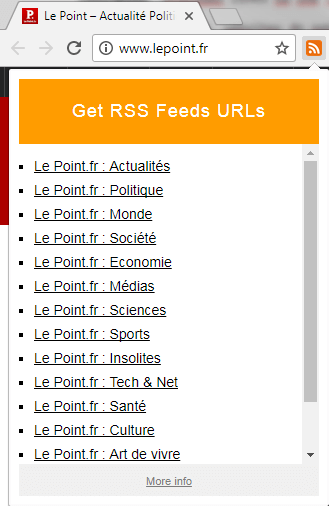
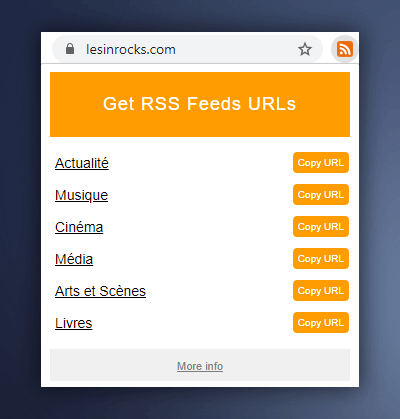
Add copy button #11 and automatic generation of the RSS feed URL for Reddit

diff --git a/js/popup.js b/js/popup.js
@@ -7,6 +7,9 @@ function getFeedsURLs(url, callback) {
     // Check if it's a Youtube URL (channel or user feed)
     var ytRss = getYoutubeRss(url);
 
+    // Check if it's a Reddit URL
+    var rdRss = getRedditRss(url);
+
     if (ytRss !== false)
     {
         var feeds_urls = [];
@@ -15,6 +18,20 @@ function getFeedsURLs(url, callback) {
             type: '',
             url: ytRss,
             title: ytRss,
+        };
+        
+        feeds_urls.push(feed);
+
+        callback(feeds_urls);
+    }
+    else if (rdRss !== false)
+    {
+        var feeds_urls = [];
+        
+        var feed = {
+            type: '',
+            url: rdRss,
+            title: rdRss,
         };
         
         feeds_urls.push(feed);
@@ -96,33 +113,61 @@ function getFeedsURLs(url, callback) {
 /*
  * Get RSS feed URL of Youtube channel or user
  */
-function getYoutubeRss(ytUrl)
+function getYoutubeRss(tabUrl)
 {
     // Check if Youtube URL
     var regex = RegExp(/^(http(s)?:\/\/)?((w){3}.)?youtu(be|.be)?(\.com)?\/.+/gm);
 
-    var isYTUrl = regex.test(ytUrl);
+    var isYTUrl = regex.test(tabUrl);
     
     if (isYTUrl)
     {
         // Remove after "?"
-        ytUrl = ytUrl.split('?')[0];
+        tabUrl = tabUrl.split('?')[0];
 
         var channel = '';
 
         // https://www.youtube.com/channel/UCENv8pH4LkzvuSV_qHIcslg
         // https://www.youtube.com/user/cestpassorcierftv/featured
-        if (ytUrl.split('channel/')[1])
+        if (tabUrl.split('channel/')[1])
         {
-            channel = "channel_id=" + (ytUrl.split('channel/')[1]).split('/')[0]; 
+            channel = "channel_id=" + (tabUrl.split('channel/')[1]).split('/')[0]; 
         }
-        else if (ytUrl.split('user/')[1])
+        else if (tabUrl.split('user/')[1])
         {
-            channel = "user=" + (ytUrl.split('user/')[1]).split('/')[0];
+            channel = "user=" + (tabUrl.split('user/')[1]).split('/')[0];
         }
 
         if (channel != '')
             return "https://www.youtube.com/feeds/videos.xml?" + channel;
+        else
+            return false;
+    }
+    else
+    {
+        return false;
+    }
+}
+
+
+/*
+ * Get RSS feed URL of a subreddit
+ */
+function getRedditRss(tabUrl)
+{
+    // Check if subreddit URL
+    var regex = RegExp(/^(http(s)?:\/\/)?((w){3}.)?reddit\.com\/r\/(.+)/gm);
+
+    var isRedditUrl = regex.test(tabUrl);
+    
+    if (isRedditUrl)
+    {
+        // Remove last "/" if presents
+        var feedUrl = tabUrl.replace(/\/$/, '');
+        feedUrl = feedUrl + '.rss';
+
+        if (feedUrl != tabUrl)
+            return feedUrl;
         else
             return false;
     }
@@ -141,6 +186,27 @@ function render(msg)
     document.getElementById('feeds').innerHTML = msg;
 }
 
+/*
+ * Copy to clipboard text with notification
+ */
+function copyToClipboard(text, notification) {
+    const input = document.createElement('textarea');
+    input.style.position = 'fixed';
+    input.style.opacity = 0;
+    input.value = text;
+    document.body.appendChild(input);
+    input.select();
+    document.execCommand('Copy');
+    document.body.removeChild(input);
+
+    chrome.notifications.create('get-rss-feed-url-copy', {
+        type: "basic",
+        title: notification.title ?? "Get RSS Feeds URLs",
+        message: notification.message,
+        iconUrl: "img/notif_"+notification.type+".png"
+    });
+};
+
 
 
 document.addEventListener('DOMContentLoaded', function() {
@@ -152,20 +218,41 @@ document.addEventListener('DOMContentLoaded', function() {
 
             if (feeds.length > 0)
             {
-                var html = "<ul>";
+                var html = '<table>';
                 for (i = 0; i < feeds.length; i++)
                 {
-                    html += "<li>";
-                    html +=   '<a href="'+feeds[i].url+'" title="'+feeds[i].type+'" target="_blank">'+feeds[i].title+'</a>';
-                    html += "</li>";
+                    html += '<tr>';
+                    html +=   '<td class="feed-title">';
+                    html +=     '<a class="link" href="'+feeds[i].url+'" title="Open feed URL" data-tabtitle="'+tab.title+'" target="_blank">'+feeds[i].title+'</a>';
+                    html +=   '</td>';
+                    html +=   '<td class="feed-copy">';
+                    html +=     '<a class="copyLink" title="Copy feed URL" href="#">Copy URL</a>';
+                    html +=   '</td>';
+                    html += '</tr>';
                 }
-                html += "</ul>";
+                html += '</table>';
 
                 render(html);
             }
             else
             {
                 render("No feed found");
+            }
+
+            
+            // Copy to clipboard feed URL
+            var copyButtons = document.getElementsByClassName('copyLink');
+
+            for (let i = 0; i < copyButtons.length; i++) {
+                copyButtons[i].addEventListener("click", function() {
+                    console.log(this.parentNode);
+
+                    var feed = this.parentNode.parentNode.querySelector('a.link');
+                    var url = feed.getAttribute('href');
+                    var tabTitle = feed.getAttribute('data-tabtitle');
+
+                    copyToClipboard(url, {type: "success", title: tabTitle, message: "Feed URL copied in clipboard!"});
+                });
             }
 
         });

diff --git a/css/popup.css b/css/popup.css
@@ -14,16 +14,43 @@ body.rss-feed-url {
     overflow-x: hidden;
     overflow-y: auto;
 }
-.rss-feed-url #feeds ul {
-    list-style-type: square;
-    margin: 0;
-    padding-left: 15px;
+.rss-feed-url #feeds table {
+    width: 100%;
+    border-collapse: collapse;
 }
-.rss-feed-url #feeds a {
+.rss-feed-url #feeds table tr:hover td {
+    background-color: rgba(255, 156, 0, 0.1);
+}
+.rss-feed-url #feeds table td.feed-title {
+    max-width: 100px;
+    overflow: hidden;
+    text-overflow: ellipsis;
+    white-space: nowrap;
+    padding: 8px 5px;
+}
+.rss-feed-url #feeds table td.feed-copy {
+    width: 60px;
+    text-align: right;
+}
+.rss-feed-url #feeds a.link {
     color: #000;
     text-decoration: underline;
     font-size: 14px;
-    line-height: 24px;
+}
+.rss-feed-url #feeds a.link:hover {
+    text-decoration: none;
+}
+.rss-feed-url #feeds a.copyLink {
+    background-color: #ff9c00;
+    color: #fff;
+    font-size: 10px;
+    padding: 5px;
+    text-decoration: none;
+    border-radius: 4px;
+    display: inline-block;
+}
+.rss-feed-url #feeds a.copyLink:hover {
+    background-color: #e48e04;
 }
 
 .rss-feed-url header {

diff --git a/README.md b/README.md
@@ -6,11 +6,13 @@
 # What is Get RSS Feed URL Extension?
 
 
-**get-rss-feed-url-extension is a Google Chrome extension that provides links to the various RSS/Atom feeds of a website.**
+**Get RSS Feed URL is a Google Chrome extension that provides links to the various RSS/Atom feeds of a website.**
 
 Indeed, websites do not always provide a direct link to the RSS feed. It is then necessary to look in the source code of the website and find the URL of the feed.
 
-This extension makes it possible to avoid this manipulation because the URLs of the RSS feeds of the website are displayed directly!
+This extension makes it possible to avoid this manipulation because the URLs of the RSS feeds of the website are displayed directly and can be copied with one click!
+
+In addition, this extension allows you to easily retrieve the RSS feed from a Youtube channel / user or from a subreddit!
 
 
 # Install
@@ -33,11 +35,13 @@ If you encounter a problem using get-rss-feed-url-extension, or would like to re
 # Qu'est-ce que Get RSS Feed URL Extension ?
 
 
-**get-rss-feed-url-extension est une extension Google Chrome qui permet d'obtenir les liens vers les différents flux RSS/Atom d'un site Internet.**
+**Get RSS Feed URL est une extension Google Chrome qui permet d'obtenir les liens vers les différents flux RSS/Atom d'un site Internet.**
 
 En effet, les sites Internet ne mettent pas toujours à disposition un lien direct vers le flux RSS. Il faut alors chercher dans le code source et trouver l'URL du flux.
 
-Cette extension permet d'éviter cette manipulation car les URL des flux RSS du site Internet sont affichés directement !
+Cette extension permet d'éviter cette manipulation car les URL des flux RSS du site Internet sont affichés directement et peuvent être copiés d'un simple clic !
+
+De plus, cette extension vous permet de récupérer facilement le flux RSS d'une chaîne ou utilisateur Youtube ou d'un subreddit !
 
 
 # Installation
